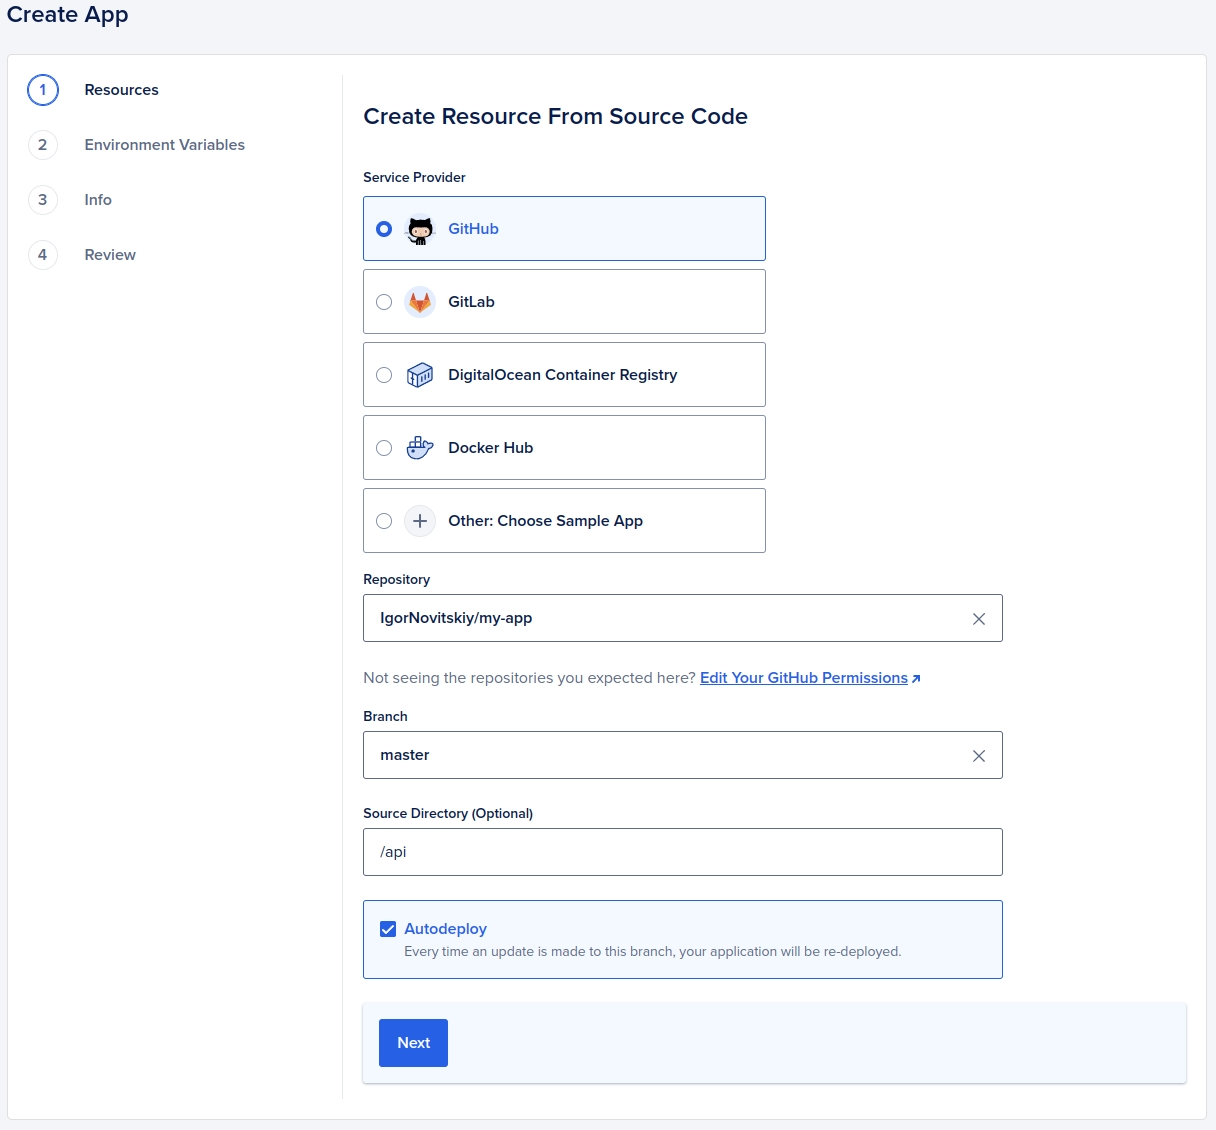
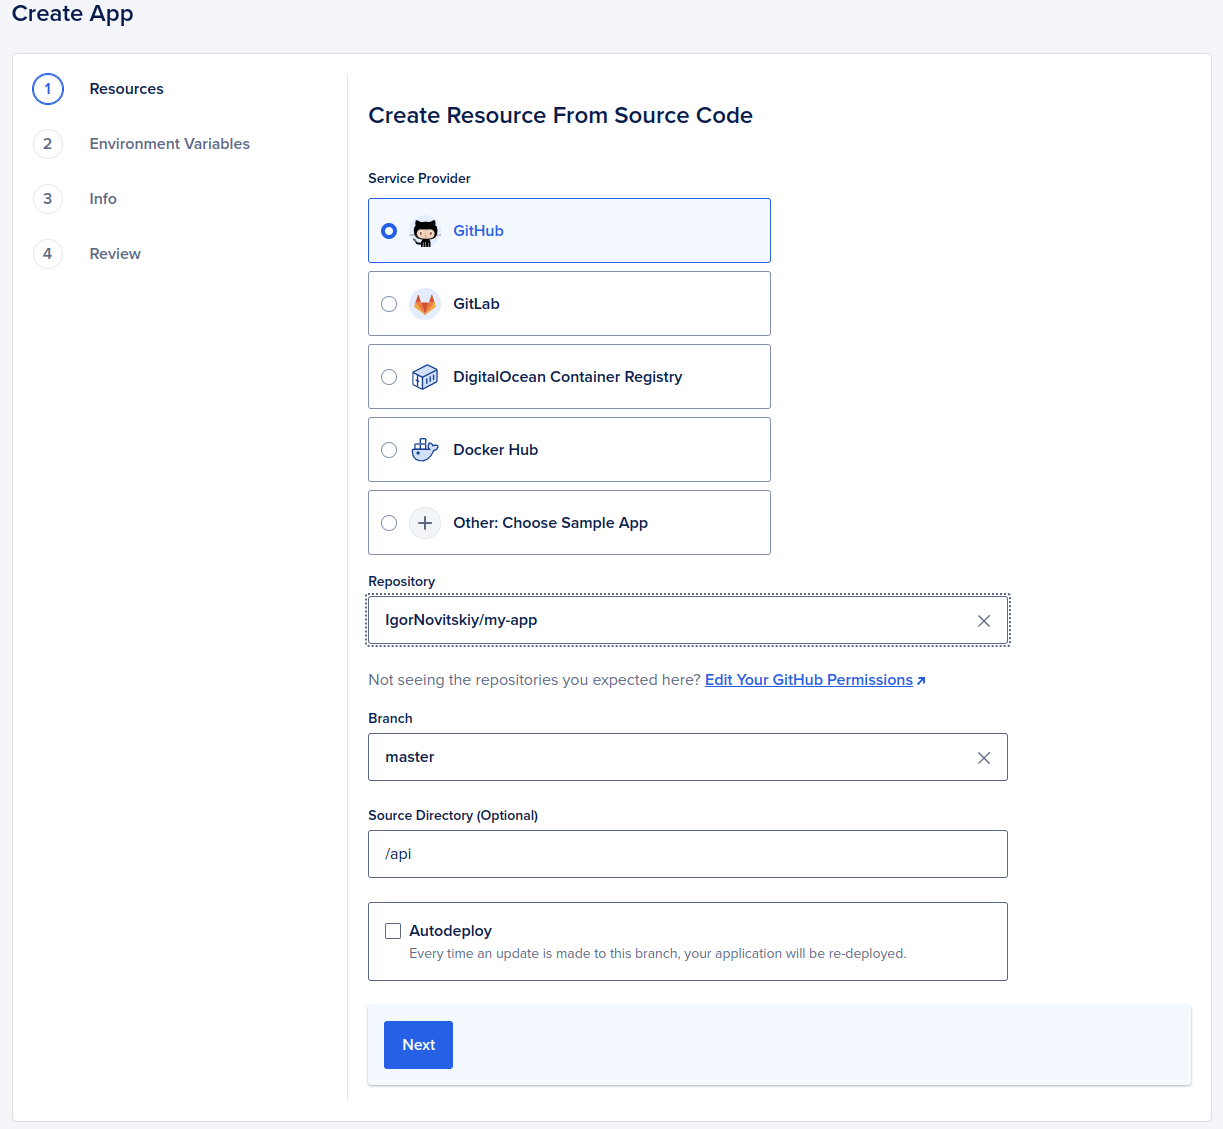
Fix remarks

diff --git a/doc/docs/deployment/digital-ocean-apps.md b/doc/docs/deployment/digital-ocean-apps.md
@@ -4,17 +4,23 @@ sidebar_position: 1
 
 # Digital Ocean Apps
 
-It's a step-by-step Ship deployment guide. We will use Digital Ocean Managed [Apps platform](https://www.digitalocean.com/products/app-platform) and [GitHub Actions](https://github.com/features/actions) for automated deployment.
+There is a simplified deployment type without Kubernetes. This type is **recommended** for most new applications because it allows you to set up infrastructure faster and doesn't require additional DevOps knowledge from the development team. You can switch to a more complex Kubernetes solution when your application will be at scale.
+
+It's a step-by-step Ship deployment guide. We will use the [Digital Ocean Apps](https://www.digitalocean.com/products/app-platform) and [GitHub Actions](https://github.com/features/actions) for automated deployment. MongoDB Atlas and Redis Cloud for databases deployment, and [Cloudflare](https://www.cloudflare.com/) for DNS and SSL configuration.
 For DNS and SSL configuration [CloudFlare](https://www.cloudflare.com/) will be used.
 For database we will use MongoDB hosted on [Mongo Atlas](https://www.mongodb.com/).
 
-You need to create [GitHub](https://github.com/), [Digital Ocean](https://www.digitalocean.com/), [CloudFlare](https://www.cloudflare.com/), [Mongo Atlas](https://www.mongodb.com/cloud/atlas/register) and [Redis](https://redis.com/try-free/) accounts.
+You need to create [GitHub](https://github.com/), [Digital Ocean](https://www.digitalocean.com/), [CloudFlare](https://www.cloudflare.com/), [MongoDB Atlas](https://www.mongodb.com/cloud/atlas/register) and [Redis Cloud](https://redis.com/try-free/) accounts.
 
-Also, you need git and Node.js if you already haven't.
+Also, you need [git](https://git-scm.com/) and [Node.js](https://nodejs.org/en/) if you already haven't.
+
+:::tip
+[Migrator](https://github.com/docs/migrator.md) and [Scheduler](https://github.com/docs/scheduler.md) will run in a Docker container for API. Unlike [Kubernetes](https://github.com/docs/deployment/kubernetes/digital-ocean.md), where separate containers are used for them.
+:::
 
 ## Setup project
 
-First, initialize your project. Type ```npx create-ship-app init``` in the terminal then choose desired build type build type and **Digital Ocean Apps** as a cloud service provider.
+First, initialize your project. Type ```npx create-ship-app init``` in the terminal then choose desired build type and **Digital Ocean Apps** as a cloud service provider.
 
 ![Init project](/img/deployment/digital-ocean-apps/init-project.png)
 
@@ -39,143 +45,154 @@ git branch -M main
 git push -u origin main
 ```
 
-## Digital Ocean Apps Platform
+## MongoDB Atlas
 
-Navigate to digital ocean control panel and select `Apps` tab. From there you can create a new application. As SHIP contains two application - web and api, two application should be created.
+Navigate to [MongoDB Atlas](https://cloud.mongodb.com/), sign in to your account and create a new database.
 
-Step-by-step application creation guide:
+### Database creation
 
-1. Initial step
-* Select GitHub as a service provider. You might need to grant Digital Ocean access to your GitHub account
-* Chose Repository with application
-* Select branch which will be used for deployment
-* [**Optional**] Select source directory if code is placed in subfolder (e.g `/web` for Web application, `/api` for API)
-
-![Create app screen](/img/deployment/digital-ocean-apps/do-create-app.png)
-
-2. Resourses setup
-* Delete duplicated resource without dockerfile if you have one.
-* Select desired plan (for stage/demo environments it is recommended to select basic plan, for production you might consider selecting more expensive plan).
-
-![Create app resources](/img/deployment/digital-ocean-apps/do-create-app-step-2.png)
-
-3. Environment variables
-* [**Optional**] Add any environment variables you need into your application (e.g - `APP_ENV='production'`). You can skip this step and add required variables later
-
-![Create app environment variables](/img/deployment/digital-ocean-apps/do-create-app-step-3.png)
-
-4. Application name and hosted region
-* [**Optional**] Select desired application name and/or region for your application
-
-![Create app host](/img/deployment/digital-ocean-apps/do-create-app-step-4.png)
-
-5. Review
-* Verify everything is correct and create new resource
-
-After application is created, you'll land on application dashboard page. Here you can see application status, check runtime logs, track deployment status, and manage application settings.
-
-Before proceed to next steps, navigate to settings and expand `App spec` tab. Make sure it contains `dockerfile_path` key with correct path to application's Dockerfile.
-
-![Create app review](/img/deployment/digital-ocean-apps/do-settings-app-spec.png)
-
-## Mongo Atlas
-
-Navigate to [mongodb](https://www.mongodb.com/cloud/atlas/register) and sign in into your account and create new database
-
-Step-by-Step database creation guide:
-
-1. Select desired type (`Dedicated` for production environment or `shared` for sandbox)
-2. Select desired provider and region(recommended to select same or close region to DO application region)
-3. Select cluster tier (`M0 Sanbox` for sanbox environments, for production it is recommended to selec one of the paid tiers)
-4. [**Optional**] Change cluster name
+1. Select the appropriate type. Dedicated for a production environment, shared for staging/demo.
+2. Select provider and region. We recommend selecting the same or closest region to the DO application.
+3. Select cluster tier. Free M0 Sandbox should be enough for staging/demo environments. For production environment we recommended selecting the option that supports cloud backups, M10 or higher.
+4. Enter cluster name
 
 ![Mongo cluster](/img/deployment/digital-ocean-apps/mongo-create.png)
 
-After cluster is created, You'll need to setup security
-1. Select authentication type (username and password)
+### Security and connection
+
+After cluster creation, you'll need to set up security. Select the authentication type (username and password) and create a user.
 
 ![Mongo setup authentication](/img/deployment/digital-ocean-apps/mongo-create-password.png)
 
-2. Add list of ip addresses, which should have access to your cluster. (Add `0.0.0.0/0` ip address to allow anyone with credentials connect to cluster)
+Add IP addresses list, which should have access to your cluster. Add 0.0.0.0/0 IP address to allow anyone with credentials to connect.
 
 ![Mongo setup ip white list](/img/deployment/digital-ocean-apps/mongo-create-ip-list.png)
 
-Once database created, you'll land on dashboard page. Here you can get URI connection string by pressing `connect` button.
+After database creation, go to the dashboard page and get the URI connection string by pressing the `connect` button.
 
 ![Mongo dashboard](/img/deployment/digital-ocean-apps/mongo-dashboard.png)
 
-Select `Connect your application` option. Chose driver and mongo version, and copy connection string. Don't forget ro replace `<password>` with password, added in step 1
+Select `Connect your application` option. Choose driver and mongo version, and copy connection string. Don't forget to replace `<password>` with your credentials.
 
 ![Mongo connect dialog](/img/deployment/digital-ocean-apps/mongo-connection-string.png)
 
-Navigate to Digital Ocean App and add connection string to application's environment variables (under `settings` tab)
+Save this value. It will be needed later when creating the app in Digital Ocean.
 
-![Digital Ocean App's environment variables](/img/deployment/digital-ocean-apps/mongo-add-variable.png)
+## Redis Cloud
 
-## Redis
-
-Navigate to [redis](https://redis.com/try-free/) and create an account.
-
-Select cloud provider and region and press `Let's start free` to finish database creation.
+Navigate to [Redis Cloud](https://redis.com/try-free/) and create an account. Select cloud provider and region, then press `Let's start free` to finish database creation.
 
 ![Redis create database](/img/deployment/digital-ocean-apps/redis-creation.png)
 
-Open settings of created database by clicking on it.
-
-On the settings screen you can find public endpoint of database aswell as its password
+Open database settings and get the database public endpoint and password.
 
 ![Redis public endpoint](/img/deployment/digital-ocean-apps/redis-public-endpoint.png)
 ![Redis password](/img/deployment/digital-ocean-apps/redis-password.png)
 
-Form redis connection string using public endpoint and password - `redis://:<password@<public-endpoint>` and add this to DO Application environment variables
+Form Redis connection string using public endpoint and password `redis://:<password@<public-endpoint>`. Save this value. It will be needed later when creating the app in Digital Ocean.
 
-![Redis environment variable](/img/deployment/digital-ocean-apps/redis-environment-variable.png)
+## Digital Ocean
 
-## Deployment process
+Navigate to the Digital Ocean Control Panel and select the **Apps** tab. The `Full-Stack` build type requires 2 applications. First for [Web](/docs/web/overview) and second for [API](/docs/api/overview), [Migrator](https://github.com/docs/migrator.md), and [Scheduler](https://github.com/docs/scheduler.md) services.
 
-You can find two github actions in `.github/workflows` folder, responsible for triggering deployment when you push changes in your repository. (If you chose frontend or backend on initialization step, you'll have one github workflow for selected application type)
+### Initial step
+1. Select GitHub as a service provider. You might need to grant Digital Ocean access to your GitHub account.
+2. Select the repository with the application.
+3. Select a branch for deployment.
+4. Select the source directory if the code is in a subfolder. For the `Full-Stack` build type, it's the `/web` and `/api` folders.
+5. Turn off the Autodeploy option. The Ship uses GitHub Actions for CI due to the poor support of monorepos in the Digital Ocean Apps
 
-These actions requires access tokens to access your digital ocean space and ID of your digital ocean application.
-respectively theese are `DO_ACCESS_TOKEN` and `DO_APP_API_ID`/`DO_APP_WEB_ID`.
+![Create app screen](/img/deployment/digital-ocean-apps/do-create-app.png)
 
-Navigate to digital ocean and open `API` tab in left side bar.
-Click `Generate new  token`, choose name and expiration period, leave checkboxes as they are
+### Resources setup
+1. Delete duplicated resources without dockerfile if you have one.
+2. Select desired plan. For staging/demo environments, sufficiently selecting a basic plan for 5$. For production, you might consider selecting a more expensive plan.
+
+![Create app resources](/img/deployment/digital-ocean-apps/do-create-app-step-2.png)
+
+### Environment variables
+1. Add `APP_ENV` responsible for the config file from the environment folder that will be used when building your application.
+
+| APP_ENV       | File          |
+| ------------- | ------------- |
+| development-docker   | development-docker.ts  |
+| development-turbo   | development-turbo.ts  |
+| staging       | staging.json  |
+| production    | production.json  |
+
+2. Add other environment variables.
+
+![Create app environment variables](/img/deployment/digital-ocean-apps/do-create-app-step-3.png)
+
+### Application name and hosted region
+* [**Optional**] Select desired application name and/or region for your application
+
+![Create app host](/img/deployment/digital-ocean-apps/do-create-app-step-4.png)
+
+### Review
+Verify everything is correct and create a new resource.
+
+After the application creation, you'll land on the application dashboard page. On dashboard, you can see application status, check runtime logs, track deployment status, and manage application settings.
+
+### App Spec
+Digital Ocean sets the path to Dockerfiles to the root by default. For the `Full-Stack` build type, you will need to change it manually.
+Navigate to Settings, expand the App spec tab and change `dockerfile_path` in the editor.
+
+![Create app review](/img/deployment/digital-ocean-apps/do-settings-app-spec.png)
+
+## Cloudflare
+
+Navigate to your Digital ocean application and open `Settings` tab. Select `Domains` row to open domain settings and click `Add domain` button
+
+![Digital Ocean domains](/img/deployment/digital-ocean-apps/do-domains.png)
+
+Type your desired domain and select option `You manage your domain`
+
+In the bottom section you'll be asked to copy CNAME alias of your digital ocean application name to record in your dns provider.
+Copy that alias and leave the form (do no close it or submit).
+
+![Digital Ocean new domain](/img/deployment/digital-ocean-apps/do-new-domain.png)
+
+Navigate to [CloudFlare](https://dash.cloudflare.com/) and sign into account.
+
+1. Go to `DNS` tab and create a new record.
+2. Click `Add record`. Select type `CNAME`,  enter domain name (must be the same you entered in digital ocean settings) and paste alias into `target` field.
+Make sure `Proxy status` toggle enabled.
+3. Save changes
+
+![Cloudflare DNS](/img/deployment/digital-ocean-apps/cloudflare-create-dns.png)
+
+Now go back to digital ocean and submit form. It usually takes about 5 minutes for digital ocean to confirm and start using your new domain.
+Once domain is confirmed, application can be accessed by new address.
+
+## GitHub Actions
+
+You can find two github actions in the `.github/workflows` folder, responsible for triggering deployment when you push changes in your repository. If you chose frontend or backend on the initialization step, you'll have one github workflow for the selected application type.
+
+These actions require a Digital Ocean access token and application ID. Respectively these are `DO_ACCESS_TOKEN` and `DO_STAGING_API_ID`/`DO_STAGING_WEB_ID`/`DO_PRODUCTION_API_ID`/`DO_PRODUCTION_WEB_ID`.
+
+Navigate to digital ocean and open the **API** tab on the left sidebar.
+Click **Generate new token** and choose name and expiration period, and leave checkboxes as they are.
 
 ![Do access token create](/img/deployment/digital-ocean-apps/do-access-token-create.png)
 
-You'll see generated token in the list. Do not forget to copy value and store it in a safe place. You won't be able to copy value after leaving the page
+You'll see generated token in the list. Do not forget to copy the value and store it in a safe place. You won't be able to copy value after leaving the page.
 
 ![Do access token copy](/img/deployment/digital-ocean-apps/do-access-token-copy.png)
 
-Next, navigate to `Apps` tab in left sidebar and open your digital ocean application.
-
-You can find id of your application id in browser address bar.
+Next, navigate to the **Apps** tab in the left sidebar and open your Digital Ccean application. You can find the id of your application id in the browser address bar.
 
 ![Do application id](/img/deployment/digital-ocean-apps/do-application-id.png)
 
 Now you can add theese keys to your github repository's secrets.
 
-Navigate to gitbub repository page and open `settings` tab (You must have `admin` or `owner` role to open this tab).
-Open `secrets/Actions` tab and create three (two if you have only frontend/backend application) repository secrets -
-
-* **DO_ACCESS_TOKEN** - Value of digital ocean personal access token.
-* **DO_APP_API_ID** and **DO_APP_WEB_ID** - Ids of digital ocean applications
+Navigate to the GitHub repository page, and open the **Settings** tab and these values. You have to be repository **admin** or **owner** to open this tab.
 
 ![Github secrets](/img/deployment/digital-ocean-apps/github-secrets.png)
 
-## Note
-If you selected either `Only Frontend` or `Only Backend` during project initialization, you'll need to update your github workflow file.
+Done! Application deployed and can be accessed by provided domain.
 
-Go to your project root directory and open `.github/workflows/application-<api>/<web>-deployment.yml` file.
-
-On row 7 you should see following string:
-
-![Github workflow](/img/deployment/digital-ocean-apps/github-workflow.png)
-
-Remove lines 6 and 7 and commit changes.
-
-## Thats it
-Project is set up and ready.
+![Deployed application](/img/deployment/digital-ocean-apps/deployed-application.png)
 
 
 
